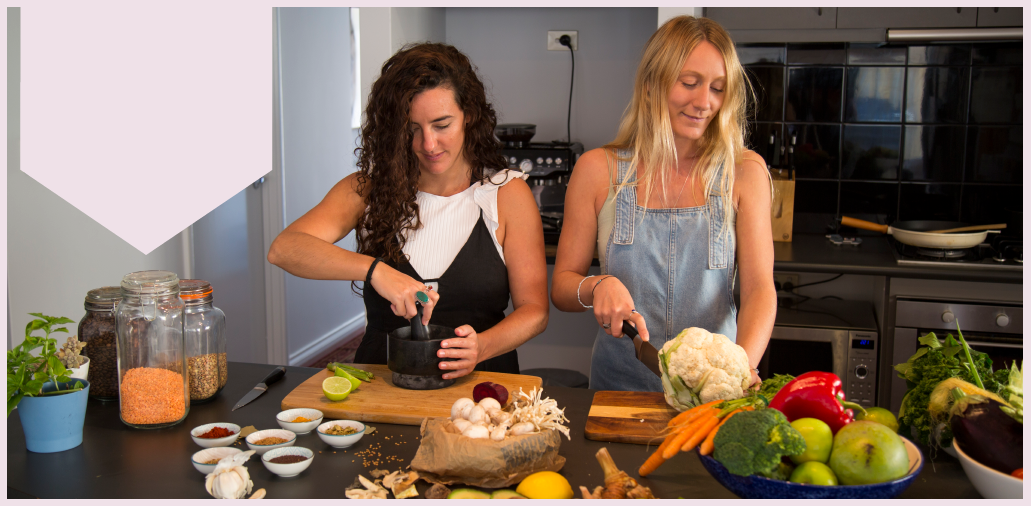
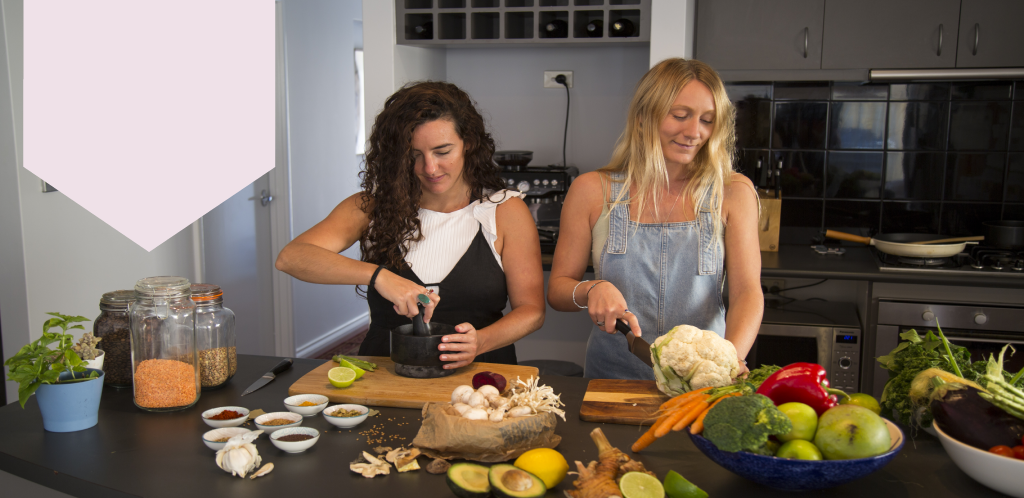
designer edits

diff --git a/web/pages/about.js b/web/pages/about.js
@@ -10,81 +10,90 @@ const About = () => {
       <Container>
         <div className="relative mt-3 lg:mt-16 pt-6 md:pt-1 pt:4">
           <div className="z-20 w-full flex justify-center absolute top-0 left-0">
-            <h1 className="pt-2 md:pt-3 text-xxxl md:text-vbig font-script">
+            <h1 className="pt-2 md:pt-3 text-big md:text-huge font-script">
               Once upon a veg!
             </h1>
           </div>
           <div className="z-10 w-full flex justify-center absolute top-0 left-0">
             <img
-              className="w-56 block md:hidden"
+              className="w-64 block md:hidden"
               src="images/pinkbrush640.png"
               alt="banner"
             />
             <img
-              className="w-84 hidden md:block lg:hidden"
+              className="w-108 hidden md:block lg:hidden"
               src="images/pinkbrush768.png"
               alt="banner"
             />
             <img
-              className="w-96 hidden lg:block"
+              className="w-116 hidden lg:block"
               src="images/pinkbrush1024.png"
               alt="banner"
             />
           </div>
           <img
-            className="z-0 relative w-9/12 mx-auto py-2 md:pb-6 lg:pb-8 md:pt-8 lg:pt-12"
+            className="z-0 relative w-full mx-auto py-5 md:pb-6 lg:pb-8 md:pt-16 lg:pt-16"
             src="images/about.jpeg"
             alt="friends"
           />
         </div>
-        <p className="relative leading-tight w-9/12 mx-auto mb-2 md:mb-4 lg:mb-6 text-sm md:text-base lg:text-lg py-6 px-6 bg-lightPinkT">
-          HOLA! <br />
-          <br />
-          We are Milly and Maria, two good friends from very different sides of
-          the world trying to make a go at a new life down under.
-          <br />
-          <br />
-          Our story begins back in the French alpine town of Chamonix Mont
-          blanc, where we first met and spent almost 5 years doing what we love
-          best, living an active outdoor lifestyle. Food has always been of is
-          of great importance to both of us and we love how the fact that
-          certain foods make us feel healthy and energised.
-          <br />
-          <br />
-          But hey where is the VEGETABLE in all of this? <br />
-          <br />
-          With Argentinian and French roots, both of our cultures were very much
-          centred around meal time when growing up. The traditional cuisine we
-          grew up with was mostly meat based and we had very little access to
-          good vegetarian meals. Now fast forward 20 years, we continue to find
-          that there could be more vegetarian variety with HEALTHY + TASTY
-          vegetarian options on the market. <br />
-          <br />
-          We will be the first to put our hands up and say that we have not
-          always followed a strict vegetarian diet plan. WHAT THE VEG! we hear
-          you… Our vision, our idea is to appreciate all things veggie. We want
-          to inspire you to cook in fabulous ways with veg and reduce your meat
-          intake but not feel too guilty if you slip from time to time. We know
-          the importance of listening to your body and doing what’s right for
-          it.
-          <br />
-          <br />
-          We decided to start experimenting, combining the flavours from our
-          childhoods with ingredients from the different places we have
-          travelled to, reminding us of the all the lovely people we have shared
-          meals with.
-          <br />
-          <br />
-          So whether you are vegetarian or looking to make changes to your diet
-          or wanting to live a more sustainable lifestyle, we just want you to
-          embrace the veg and hope that you will find our meat free meal
-          alternatives VEGGIESSIMO. *little Italian hand gesture*
-          <br />
-          <br /> MEALS + LOVE,
-          <br />
-          <br />
-          Milly & Maria
-        </p>
+        <div className="flex flex-col relative leading-tight w-full mx-auto mb-2 md:mb-4 lg:mb-6 text-sm md:text-base lg:text-lg p-6 bg-lightPink">
+          <div className="flex flex-col md:flex-row justify-start w-full">
+            <p className="w-full md:w-1/2 lg:w-5/12 text-sm md:text-base lg:text-lg p-4 mb-6 bg-lightBlueT">
+              HOLA! <br />
+              <br />
+              We are Milly and Maria, two good friends from very different sides
+              of the world trying to make a go at a new life down under.
+              <br />
+              <br />
+              Our story begins back in the French alpine town of Chamonix Mont
+              blanc, where we first met and spent almost 5 years doing what we
+              love best, living an active outdoor lifestyle. Food has always
+              been of is of great importance to both of us and we love how the
+              fact that certain foods make us feel healthy and energised.
+            </p>
+            <img
+              className="w-full md:w-3/12 lg: w-2/12 self-center md:self-end m-3 md:m-6"
+              src="https://via.placeholder.com/450"
+              alt="cooking"
+            />
+          </div>
+          <p className="mt-6 md:mt-0">
+            But hey where is the VEGETABLE in all of this? <br />
+            <br />
+            With Argentinian and French roots, both of our cultures were very
+            much centred around meal time when growing up. The traditional
+            cuisine we grew up with was mostly meat based and we had very little
+            access to good vegetarian meals. Now fast forward 20 years, we
+            continue to find that there could be more vegetarian variety with
+            HEALTHY + TASTY vegetarian options on the market. <br />
+            <br />
+            We will be the first to put our hands up and say that we have not
+            always followed a strict vegetarian diet plan. WHAT THE VEG! we hear
+            you… Our vision, our idea is to appreciate all things veggie. We
+            want to inspire you to cook in fabulous ways with veg and reduce
+            your meat intake but not feel too guilty if you slip from time to
+            time. We know the importance of listening to your body and doing
+            what’s right for it.
+            <br />
+            <br />
+            We decided to start experimenting, combining the flavours from our
+            childhoods with ingredients from the different places we have
+            travelled to, reminding us of the all the lovely people we have
+            shared meals with.
+            <br />
+            <br />
+            So whether you are vegetarian or looking to make changes to your
+            diet or wanting to live a more sustainable lifestyle, we just want
+            you to embrace the veg and hope that you will find our meat free
+            meal alternatives VEGGIESSIMO. *little Italian hand gesture*
+            <br />
+            <br /> MEALS + LOVE,
+            <br />
+            <br />
+            Milly & Maria
+          </p>
+        </div>
         <Footer />
       </Container>
     </>

diff --git a/web/pages/contact.js b/web/pages/contact.js
@@ -11,7 +11,7 @@ const Contact = () => {
   return (
     <>
       <Container>
-        <div className="flex flex-col w-full lg:w-9/12 mx-auto relative mt-8 md:mt-12 lg:mt-24">
+        <div className="flex flex-col w-full mx-auto relative mt-8 md:mt-12 lg:mt-24">
           <img
             className="block md:hidden w-full z-0"
             src="images/contact640.png"
@@ -70,7 +70,7 @@ const Contact = () => {
             </div>
             <div className="flex justify-center items-center">
               <StyledEmail />
-              <p className="text-xl md:text-xxl lg:text-xxxl pb-3 font-sans">
+              <p className="text-xl md:text-xxl lg:text-xxxl pb-3 md:pb-4 font-sans">
                 veggiessimo@gmail.com
               </p>
             </div>
@@ -144,13 +144,13 @@ const StyledPin = styled(PinterestWithCircle)`
 `;
 
 const StyledEmail = styled(Email)`
-  width: 2.5rem;
-  height: 2.5rem;
+  width: 1.5rem;
+  height: 1.5rem;
   margin: 0 5px 10px;
 
   @media (min-width: 768px) {
-    width: 3.5rem;
-    height: 3.5rem;
+    width: 2.5rem;
+    height: 2.5rem;
     margin: 0 10px 15px;
   }
 `;

diff --git a/web/pages/index.js b/web/pages/index.js
@@ -5,6 +5,7 @@ import groq from "groq";
 import client from "../client";
 import imageUrlBuilder from "@sanity/image-url";
 import styled from "styled-components";
+import Color from "../styled/colors";
 import RecipesLink from "../components/recipeslink";
 import AboutLink from "../components/aboutlink";
 import CommunityLink from "../components/communitylink";
@@ -73,7 +74,7 @@ const Index = (props) => {
                           </div>
                         </div>
                       </StyledLink>
-                      <div className="w-full md:w-11/12 lg:w-10/12 bg-lightBlue mx-auto">
+                      <div className="w-full md:w-11/12 lg:w-10/12 mx-auto">
                         <p className="font-sans text-center text-black uppercase mx-10 my-2 text-sm md:text-lg lg:text-xxl">
                           {title}
                           <span className="vegetarianicon"> &#9419;</span>
@@ -118,6 +119,7 @@ const Recipes = styled.ul`
   margin: 10px auto;
   display: flex;
   flex-direction: column;
+  background: ${Color.lightPinkT};
 `;
 
 const StyledLink = styled.div`

diff --git a/web/components/aboutlink.js b/web/components/aboutlink.js
@@ -3,16 +3,11 @@ import styled from "styled-components";
 
 const AboutLink = () => {
   return (
-    <div className="flex relative justify-center items-center w-full lg:w-10/12 mx-auto mt-6 md:mt-12">
-      <img className="w-full md:hidden" src="images/cwu640.png" alt="cooking" />
-      <img
-        className="w-full hidden md:block lg:hidden"
-        src="images/cwu640.png"
-        alt="cooking"
-      />
+    <div className="flex relative justify-center items-center w-full mx-auto mt-6 md:mt-12">
+      <img className="w-full lg:hidden" src="images/cwu768.png" alt="cooking" />
       <img
         className="w-full hidden lg:block"
-        src="images/cwu640.png"
+        src="images/cwu1024.png"
         alt="cooking"
       />
       <TextBox
@@ -33,11 +28,11 @@ const AboutLink = () => {
 const TextBox = styled.a`
   width: fit-content;
   top: 6.5%;
-  left: 2%;
+  left: 4%;
   text-align: center;
 
   @media (max-width: 640px) {
-    left: 2.5vw;
+    left: 4vw;
     h1 {
       font-size: 5.5vw;
     }

diff --git a/web/components/communitylink.js b/web/components/communitylink.js
@@ -24,7 +24,8 @@ const CommunityLink = () => {
       <h1 className="absolute font-script text-lightPink text-big md:text-huge lg:text-vhuge z-20">
         Community
       </h1>
-      <p className="absolute font-sans text-lightPink uppercase text-xxs md:text-base lg:text-xl z-20 w-auto">
+      <p className="absolute text-center font-sans text-lightPink uppercase text-xxs md:text-base lg:text-xl leading-tight md:leading-5 lg:leading-6 z-20 w-auto">
+        <span className="text-sm md:text-xl lg:text-xxl">+</span> <br />
         Sustainable living
       </p>
     </SectionWrapper>
@@ -41,11 +42,12 @@ const SectionWrapper = styled.div`
   }
 
   p {
-    bottom: 40%;
+    bottom: 37.5%;
     right: 18.5%;
 
     @media (min-width: 768px) {
       right: 16.5%;
+      bottom: 42%;
     }
   }
 `;
